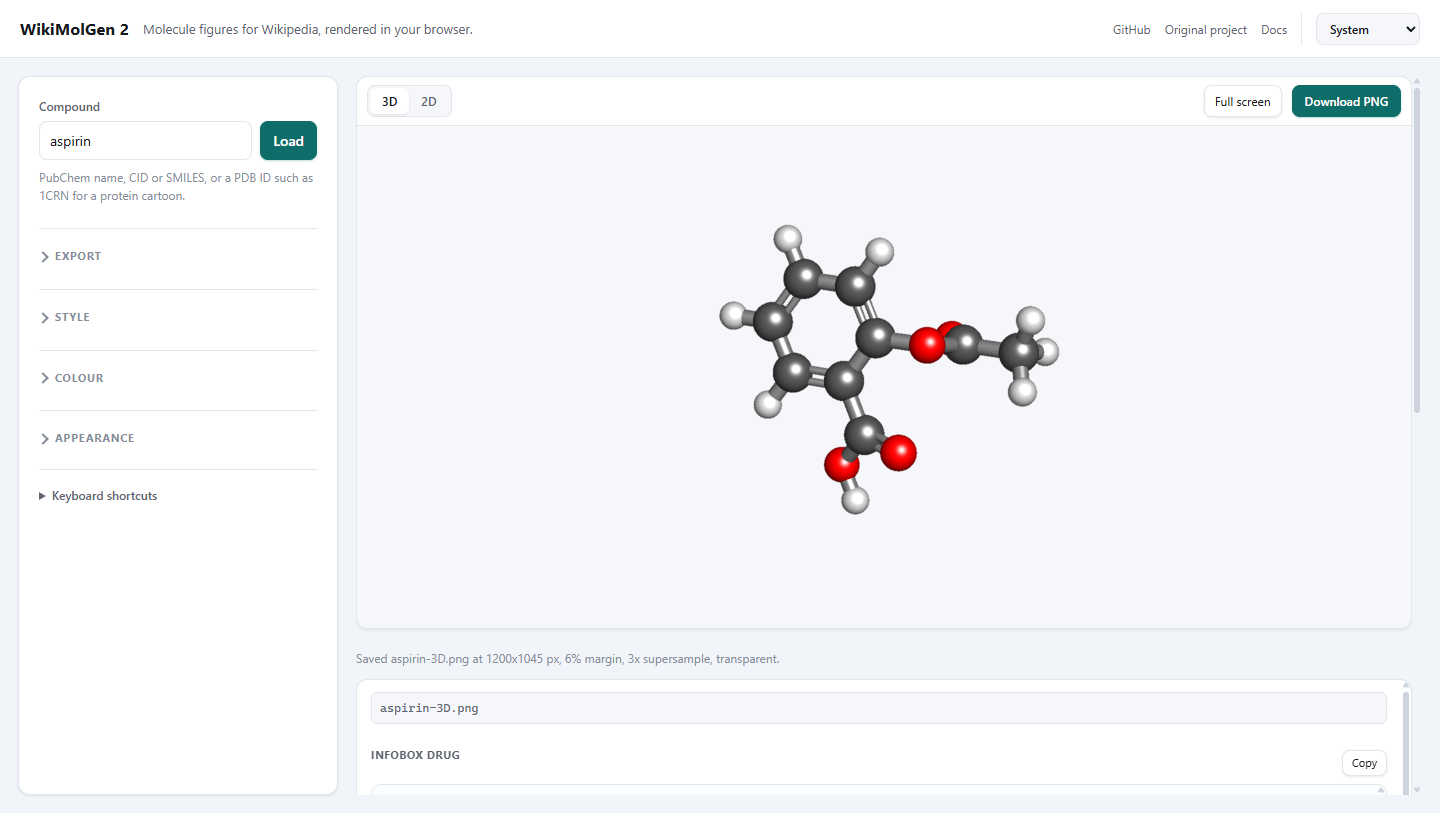
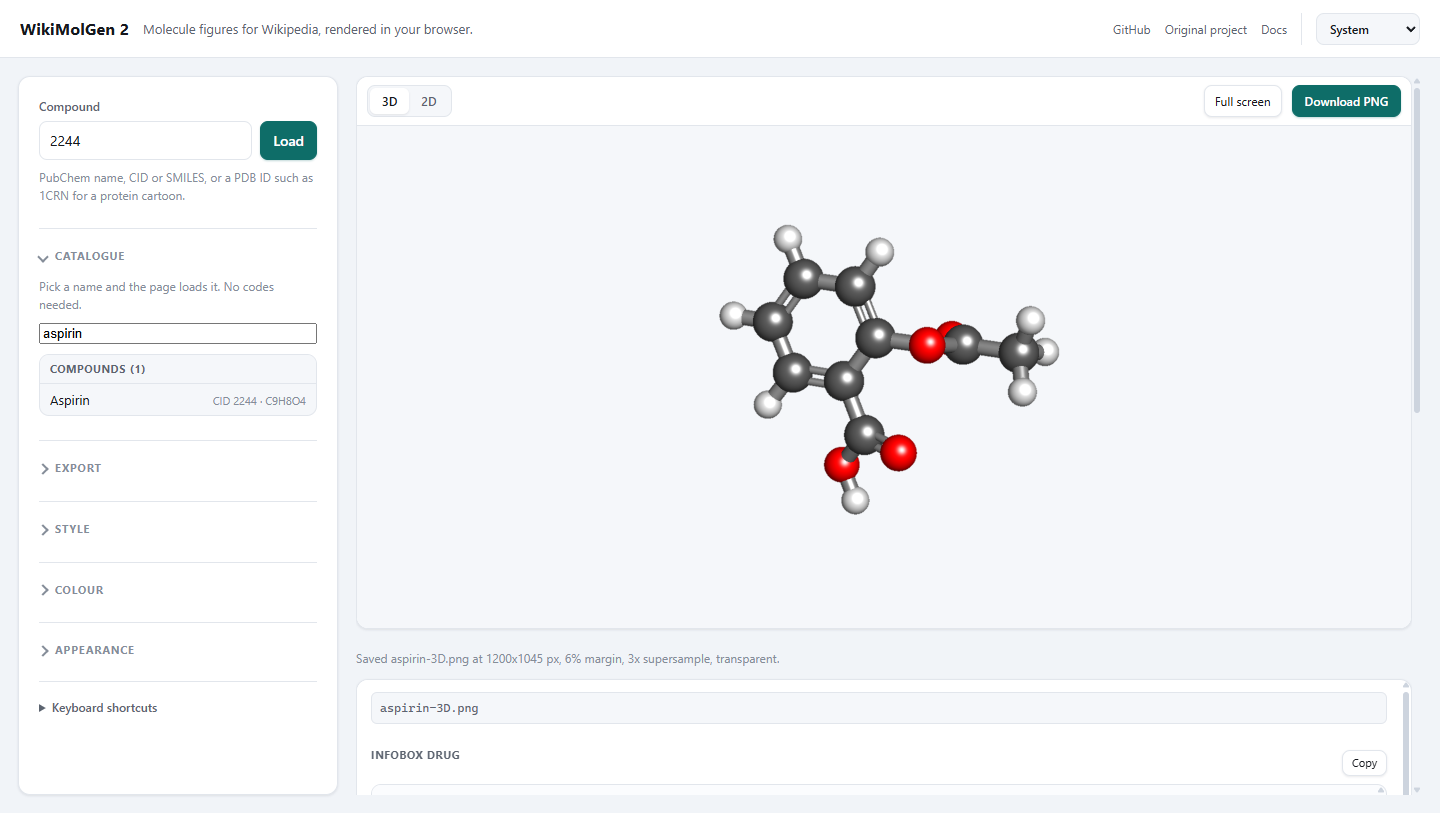
Add a searchable compound and protein catalogue

diff --git a/web/src/catalogue.ts b/web/src/catalogue.ts
@@ -1,0 +1,181 @@
+/**
+ * A browsable catalogue of common compounds and proteins.
+ *
+ * The lookup field accepts a name, CID, SMILES or PDB ID, but a Wikipedia editor should
+ * not need to know those codes. This list is the alternative path: pick a name, and the
+ * page fills the identifier and loads it. Every CID and PDB ID here was resolved against
+ * PubChem and RCSB PDB before it was added.
+ */
+
+import { dom } from "./context.js";
+
+export type CatalogueKind = "compound" | "protein";
+
+export interface CatalogueEntry {
+  kind: CatalogueKind;
+  /** The name a reader knows. */
+  label: string;
+  /** PubChem CID or PDB identifier. */
+  id: string;
+  /** Molecular formula, for a compound. */
+  formula?: string;
+  /** One-line description, for a protein. */
+  note?: string;
+  /** Other names the search should match, comma separated. */
+  synonyms?: string;
+}
+
+export const CATALOGUE: CatalogueEntry[] = [
+  // Compounds: CIDs verified against PubChem, formulas taken from the same response.
+  { kind: "compound", label: "Acetaminophen", id: "1983", formula: "C8H9NO2", synonyms: "paracetamol, tylenol" },
+  { kind: "compound", label: "Acetic acid", id: "176", formula: "C2H4O2", synonyms: "ethanoic acid" },
+  { kind: "compound", label: "Acetone", id: "180", formula: "C3H6O", synonyms: "propanone" },
+  { kind: "compound", label: "Amoxicillin", id: "33613", formula: "C16H19N3O5S", synonyms: "antibiotic" },
+  { kind: "compound", label: "Ammonia", id: "222", formula: "H3N" },
+  { kind: "compound", label: "Aspirin", id: "2244", formula: "C9H8O4", synonyms: "acetylsalicylic acid" },
+  { kind: "compound", label: "Atorvastatin", id: "60823", formula: "C33H35FN2O5", synonyms: "statin, lipitor" },
+  { kind: "compound", label: "Benzene", id: "241", formula: "C6H6" },
+  { kind: "compound", label: "Caffeine", id: "2519", formula: "C8H10N4O2", synonyms: "coffee" },
+  { kind: "compound", label: "Chloramphenicol", id: "5959", formula: "C11H12Cl2N2O5", synonyms: "antibiotic" },
+  { kind: "compound", label: "Chloroform", id: "6212", formula: "CHCl3", synonyms: "trichloromethane" },
+  { kind: "compound", label: "Cholesterol", id: "5997", formula: "C27H46O" },
+  { kind: "compound", label: "Ciprofloxacin", id: "2764", formula: "C17H18FN3O3", synonyms: "antibiotic" },
+  { kind: "compound", label: "Citric acid", id: "311", formula: "C6H8O7" },
+  { kind: "compound", label: "Cocaine", id: "446220", formula: "C17H21NO4" },
+  { kind: "compound", label: "Codeine", id: "5284371", formula: "C18H21NO3" },
+  { kind: "compound", label: "Dexamethasone", id: "5743", formula: "C22H29FO5", synonyms: "corticosteroid" },
+  { kind: "compound", label: "Diazepam", id: "3016", formula: "C16H13ClN2O", synonyms: "valium" },
+  { kind: "compound", label: "Dichloromethane", id: "6344", formula: "CH2Cl2", synonyms: "DCM, methylene chloride" },
+  { kind: "compound", label: "Doxorubicin", id: "31703", formula: "C27H29NO11", synonyms: "chemotherapy" },
+  { kind: "compound", label: "Estradiol", id: "5757", formula: "C18H24O2", synonyms: "oestradiol, estrogen" },
+  { kind: "compound", label: "Ethanol", id: "702", formula: "C2H6O", synonyms: "alcohol" },
+  { kind: "compound", label: "Fentanyl", id: "3345", formula: "C22H28N2O", synonyms: "opioid" },
+  { kind: "compound", label: "Fluconazole", id: "3365", formula: "C13H12F2N6O", synonyms: "antifungal" },
+  { kind: "compound", label: "Fluoxetine", id: "3386", formula: "C17H18F3NO", synonyms: "prozac, SSRI" },
+  { kind: "compound", label: "Formic acid", id: "284", formula: "CH2O2", synonyms: "methanoic acid" },
+  { kind: "compound", label: "Glucose", id: "5793", formula: "C6H12O6", synonyms: "dextrose, sugar" },
+  { kind: "compound", label: "Glycerol", id: "753", formula: "C3H8O3", synonyms: "glycerine" },
+  { kind: "compound", label: "Ibuprofen", id: "3672", formula: "C13H18O2", synonyms: "brufen, advil" },
+  { kind: "compound", label: "Kaempferol", id: "5280863", formula: "C15H10O6", synonyms: "flavonoid" },
+  { kind: "compound", label: "LSD", id: "5761", formula: "C20H25N3O", synonyms: "lysergic acid diethylamide" },
+  { kind: "compound", label: "Luteolin", id: "5280445", formula: "C15H10O6", synonyms: "flavonoid" },
+  { kind: "compound", label: "MDMA", id: "1615", formula: "C11H15NO2", synonyms: "ecstasy" },
+  { kind: "compound", label: "Metformin", id: "4091", formula: "C4H11N5", synonyms: "diabetes" },
+  { kind: "compound", label: "Methane", id: "297", formula: "CH4" },
+  { kind: "compound", label: "Methanol", id: "887", formula: "CH4O", synonyms: "methyl alcohol" },
+  { kind: "compound", label: "Metoprolol", id: "4171", formula: "C15H25NO3", synonyms: "beta blocker" },
+  { kind: "compound", label: "Morphine", id: "5288826", formula: "C17H19NO3", synonyms: "opioid" },
+  { kind: "compound", label: "Naphthalene", id: "931", formula: "C10H8" },
+  { kind: "compound", label: "Nicotine", id: "89594", formula: "C10H14N2", synonyms: "tobacco" },
+  { kind: "compound", label: "Omeprazole", id: "4594", formula: "C17H19N3O3S", synonyms: "PPI" },
+  { kind: "compound", label: "Paclitaxel", id: "36314", formula: "C47H51NO14", synonyms: "taxol" },
+  { kind: "compound", label: "Penicillin G", id: "5904", formula: "C16H18N2O4S", synonyms: "antibiotic" },
+  { kind: "compound", label: "Phenol", id: "996", formula: "C6H6O" },
+  { kind: "compound", label: "Progesterone", id: "5994", formula: "C21H30O2", synonyms: "hormone" },
+  { kind: "compound", label: "Pyridine", id: "1049", formula: "C5H5N" },
+  { kind: "compound", label: "Quercetin", id: "5280343", formula: "C15H10O7", synonyms: "flavonoid" },
+  { kind: "compound", label: "Resveratrol", id: "445154", formula: "C14H12O3", synonyms: "polyphenol" },
+  { kind: "compound", label: "Sertraline", id: "68617", formula: "C17H17Cl2N", synonyms: "SSRI" },
+  { kind: "compound", label: "Simvastatin", id: "54454", formula: "C25H38O5", synonyms: "statin" },
+  { kind: "compound", label: "Sodium chloride", id: "5234", formula: "ClNa", synonyms: "salt, NaCl" },
+  { kind: "compound", label: "Testosterone", id: "6013", formula: "C19H28O2", synonyms: "androgen" },
+  { kind: "compound", label: "Thyroxine", id: "5819", formula: "C15H11I4NO4", synonyms: "levothyroxine, T4" },
+  { kind: "compound", label: "Toluene", id: "1140", formula: "C7H8", synonyms: "methylbenzene" },
+  { kind: "compound", label: "Urea", id: "1176", formula: "CH4N2O" },
+  { kind: "compound", label: "Vancomycin", id: "14969", formula: "C66H75Cl2N9O24", synonyms: "antibiotic" },
+  { kind: "compound", label: "Warfarin", id: "54678486", formula: "C19H16O4", synonyms: "anticoagulant" },
+  { kind: "compound", label: "Water", id: "962", formula: "H2O" },
+
+  // Proteins: PDB entries verified against RCSB PDB, notes from their titles.
+  { kind: "protein", label: "Adenylate kinase", id: "1AKE", note: "enzyme, E. coli" },
+  { kind: "protein", label: "B-DNA dodecamer", id: "1BNA", note: "Drew-Dickerson duplex" },
+  { kind: "protein", label: "Calmodulin", id: "3CLN", note: "calcium sensor" },
+  { kind: "protein", label: "Crambin", id: "1CRN", note: "plant protein" },
+  { kind: "protein", label: "Glucagon", id: "1GCN", note: "peptide hormone" },
+  { kind: "protein", label: "Haemoglobin, deoxy", id: "4HHB", note: "human, alpha2 beta2" },
+  { kind: "protein", label: "Haemoglobin, oxy", id: "1HHO", note: "human, alpha2 beta2" },
+  { kind: "protein", label: "Lysozyme", id: "2LYZ", note: "enzyme, hen egg white" },
+  { kind: "protein", label: "Myoglobin", id: "1MBN", note: "oxygen carrier, sperm whale" },
+  { kind: "protein", label: "SARS-CoV-2 main protease", id: "6LU7", note: "with inhibitor N3" },
+  { kind: "protein", label: "Triosephosphate isomerase", id: "7TIM", note: "TIM-barrel enzyme" },
+  { kind: "protein", label: "Trypsin", id: "2PTN", note: "serine protease, bovine" },
+  { kind: "protein", label: "Ubiquitin", id: "1UBQ", note: "regulatory protein" },
+];
+
+/** Everything the search looks at, lower case. */
+function searchText(entry: CatalogueEntry): string {
+  return [entry.label, entry.id, entry.formula ?? "", entry.note ?? "", entry.synonyms ?? ""]
+    .join(" ")
+    .toLowerCase();
+}
+
+/** The line under the name: the code, so a reader learns it, plus one detail. */
+function hintOf(entry: CatalogueEntry): string {
+  const code = entry.kind === "compound" ? `CID ${entry.id}` : `PDB ${entry.id}`;
+  const detail = entry.kind === "compound" ? entry.formula : entry.note;
+  return detail === undefined ? code : `${code} · ${detail}`;
+}
+
+/** One clickable row. */
+function rowFor(entry: CatalogueEntry): HTMLButtonElement {
+  const button = document.createElement("button");
+  button.type = "button";
+  button.className = "catalogue-item";
+  button.dataset.id = entry.id;
+  button.title = `Load ${entry.label}`;
+
+  const name = document.createElement("span");
+  name.className = "catalogue-name";
+  name.textContent = entry.label;
+
+  const hint = document.createElement("span");
+  hint.className = "catalogue-hint";
+  hint.textContent = hintOf(entry);
+
+  button.append(name, hint);
+  return button;
+}
+
+/** Fill the list with the entries that match the query, grouped by kind. */
+function render(query: string): void {
+  const needle = query.trim().toLowerCase();
+  const matches = CATALOGUE.filter((entry) => needle === "" || searchText(entry).includes(needle));
+  const groups: [CatalogueKind, string][] = [
+    ["compound", "Compounds"],
+    ["protein", "Proteins"],
+  ];
+
+  const children: HTMLElement[] = [];
+  for (const [kind, title] of groups) {
+    const entries = matches.filter((entry) => entry.kind === kind);
+    if (entries.length === 0) continue;
+    const heading = document.createElement("h3");
+    heading.className = "group-label catalogue-group";
+    heading.textContent = `${title} (${entries.length})`;
+    children.push(heading);
+    children.push(...entries.map(rowFor));
+  }
+
+  if (children.length === 0) {
+    const empty = document.createElement("p");
+    empty.className = "hint catalogue-empty";
+    empty.textContent = "No match. Type the name in the field above, or try a shorter search.";
+    children.push(empty);
+  }
+
+  dom.catalogueList.replaceChildren(...children);
+}
+
+/** Wire the catalogue once, after the document exists. */
+export function bindCatalogue(): void {
+  render("");
+  dom.catalogueSearch.addEventListener("input", () => render(dom.catalogueSearch.value));
+  dom.catalogueList.addEventListener("click", (event) => {
+    const target = event.target;
+    if (!(target instanceof Element)) return;
+    const button = target.closest("button[data-id]");
+    if (!(button instanceof HTMLButtonElement)) return;
+    dom.identifier.value = button.dataset.id ?? "";
+    dom.form.requestSubmit();
+  });
+}

diff --git a/web/src/styles.css b/web/src/styles.css
@@ -468,6 +468,67 @@ button:disabled {
   color: var(--faint);
 }
 
+/* Catalogue ---------------------------------------------------------------------- */
+
+/* The search box spans the panel; the list below it is its own scroll area. */
+#catalogue-search {
+  width: 100%;
+  margin-top: 10px;
+}
+
+/* A scrollable list, with sticky group headings: the list is longer than the panel. */
+.catalogue-list {
+  max-height: 280px;
+  margin-top: 10px;
+  overflow-y: auto;
+  border: 1px solid var(--line);
+  border-radius: 10px;
+  background: var(--surface-2);
+}
+
+.catalogue-group {
+  position: sticky;
+  top: 0;
+  margin: 0;
+  padding: 7px 10px 5px;
+  border-bottom: 1px solid var(--line);
+  background: var(--surface-2);
+}
+
+.catalogue-item {
+  display: flex;
+  align-items: baseline;
+  justify-content: space-between;
+  gap: 10px;
+  width: 100%;
+  padding: 6px 10px;
+  border: 0;
+  border-radius: 0;
+  background: none;
+  box-shadow: none;
+  text-align: left;
+}
+
+.catalogue-item:hover {
+  background: var(--accent-soft);
+}
+
+.catalogue-name {
+  color: var(--ink);
+  font-size: 13px;
+}
+
+.catalogue-hint {
+  color: var(--faint);
+  font-size: 11px;
+  white-space: nowrap;
+}
+
+.catalogue-empty {
+  margin: 0;
+  padding: 12px 10px;
+}
+
 /* Style picker ------------------------------------------------------------------ */
 
 .looks {

diff --git a/web/index.html b/web/index.html
@@ -70,6 +70,20 @@
           <p class="hint">PubChem name, CID or SMILES, or a PDB ID such as 1CRN for a protein cartoon.</p>
         </form>
 
+        <details id="catalogue" class="block section" open>
+          <summary><h2>Catalogue</h2></summary>
+          <p class="hint">Pick a name and the page loads it. No codes needed.</p>
+          <input
+            id="catalogue-search"
+            type="search"
+            autocomplete="off"
+            spellcheck="false"
+            placeholder="Search compounds and proteins"
+            aria-label="Search the catalogue"
+          />
+          <div id="catalogue-list" class="catalogue-list" aria-label="Catalogue"></div>
+        </details>
+
         <details id="section-export" class="block section">
           <summary><h2>Export</h2></summary>
           <label class="field-label" for="export-width">Image width</label>

diff --git a/web/src/main.ts b/web/src/main.ts
@@ -41,6 +41,7 @@ import {
     type ViewMode,
 } from "./context.js";
 import { buildDepiction, clearDepiction, showDepiction } from "./depiction.js";
+import { bindCatalogue } from "./catalogue.js";
 import { bindExport, exportFigure } from "./figure.js";
 import { bindFullscreen } from "./fullscreen.js";
 import { bindKeyboard } from "./keyboard.js";
@@ -571,6 +572,7 @@ function withTimeout<T>(promise: Promise<T>, ms: number, message: string): Promi
 
 bindTheme();
 bindSections();
+bindCatalogue();
 bindFullscreen();
 document.addEventListener("themechange", () => {
   state.viewer?.setStageTint(stageTint());

diff --git a/web/src/context.ts b/web/src/context.ts
@@ -131,6 +131,9 @@ export const dom = {
   stageText: required<HTMLParagraphElement>("stage-text"),
   fullscreen: required<HTMLButtonElement>("fullscreen"),
   shortcuts: required<HTMLDetailsElement>("shortcuts"),
+  catalogue: required<HTMLDetailsElement>("catalogue"),
+  catalogueSearch: required<HTMLInputElement>("catalogue-search"),
+  catalogueList: required<HTMLDivElement>("catalogue-list"),
   fileName: required<HTMLElement>("file-name"),
   copyDrugbox: required<HTMLButtonElement>("copy-drugbox"),
   copyChembox: required<HTMLButtonElement>("copy-chembox"),

diff --git a/docs/SPEC.md b/docs/SPEC.md
@@ -50,6 +50,7 @@ reach; a load then scrolls the figure into view.
 | Navigation | Viewer's own mouse controls, zoom buttons, re-frame, full screen, and keyboard shortcuts |
 | Links | A lookup is written to `?q=` and read back on boot, so a figure can be shared or reloaded |
 | Export | The download button sits in the figure toolbar. PNG at any width from 400 to 4096 px; a 4 to 9 percent margin; 3x supersampling by default, 2x and 4x selectable; optional atom labels and scale bar; transparent by default, with an optional background and export gradient |
+| Catalogue | 58 compounds and 13 proteins, each verified against PubChem or RCSB PDB. The search matches names, synonyms, formulas and codes; a row fills the identifier and loads it. The section starts open |
 | Metadata | PubChem properties, Wikidata identifiers and ATC codes, Wikipedia clinical fields and an openFDA drug label, merged into the infobox and chembox fields. The page does not display them in a panel |
 | `{{Infobox drug}}` | Field names, section order and escaping as the template expects, including ATC, routes and legal status |
 | `{{Chembox}}` | Nested sections: identifiers, properties, pharmacology, hazards |
@@ -195,6 +196,7 @@ scripts/dev-env.ps1     toolchain paths for this workstation
 * `cargo build --target wasm32-unknown-unknown -p wikimolgen2_wasm` produces the module.
 * The page loads, accepts `aspirin`, shows a molecule, and all three outputs produce markup
   that parses as balanced templates.
+* The catalogue finds aspirin and 1CRN by name, and a row click loads the entry.
 * Export at 1600 px writes a 1600 px wide PNG with 6 percent margins and no clipped atoms.
 * The 2D view draws a transparent RDKit SVG under 100 KB and downloads it.
 * A 1CRN lookup draws a cartoon coloured by secondary structure in under three seconds.

diff --git a/README.md b/README.md
@@ -11,6 +11,9 @@ It is a static site: no server, no upload, no install.
 
 What it offers:
 
+* **Lookup without codes.** A catalogue of 58 common compounds and 13 PDB proteins,
+  searchable by name, synonym, formula, CID or PDB ID. Pick a row and the figure loads, so
+  a reader never needs to know the codes.
 * **2D and 3D.** RDKit's MinimalLib draws the skeletal SVG with no background, plus
   element colours and stereo. Ball-and-stick, space-filling, licorice, stick and protein
   cartoons cover 3D.
